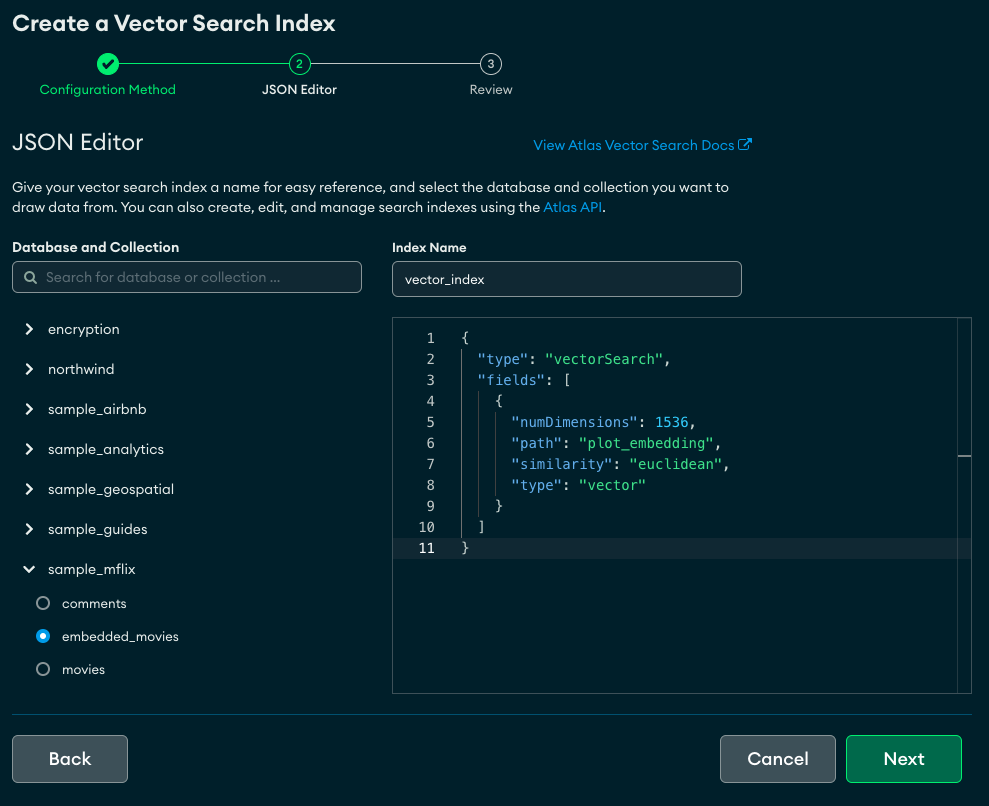
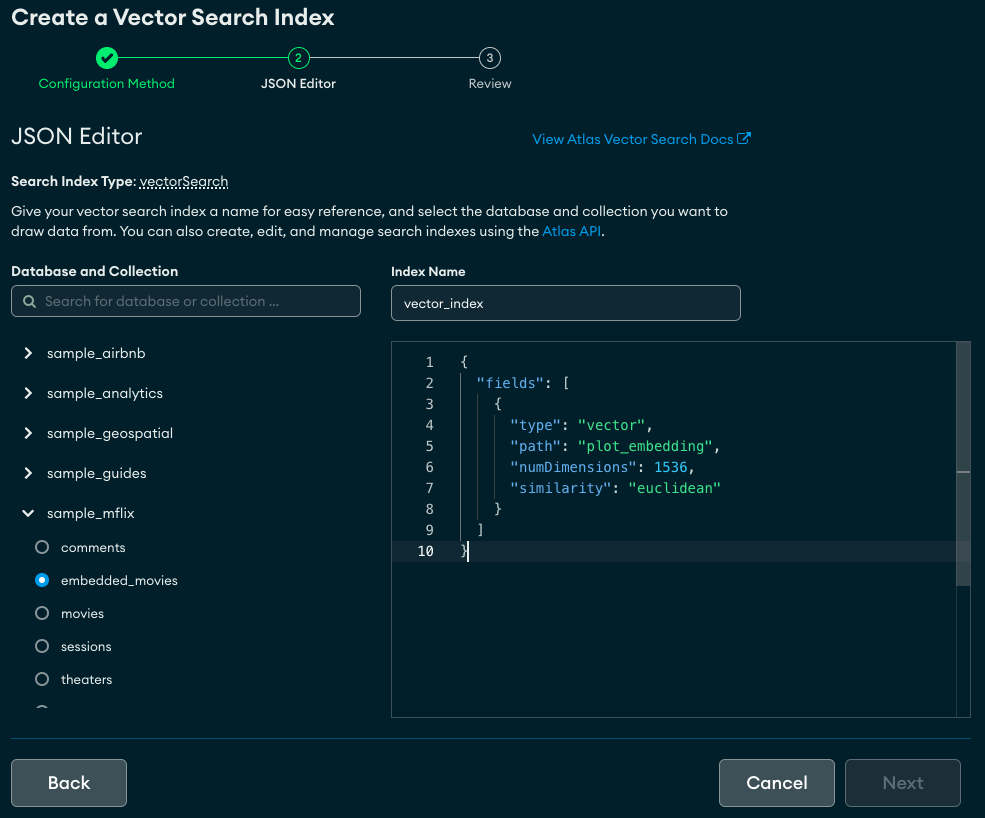
Index definition

diff --git a/README.md b/README.md
@@ -27,13 +27,12 @@ Select the option to create an **Atlas Vector Search** index and supply the foll
 
 ```json
 {
-  "type": "vectorSearch",
   "fields": [
     {
-      "numDimensions": 1536,
+      "type": "vector",
       "path": "plot_embedding",
-      "similarity": "euclidean",
-      "type": "vector"
+      "numDimensions": 1536,
+      "similarity": "euclidean"
     }
   ]
 }
